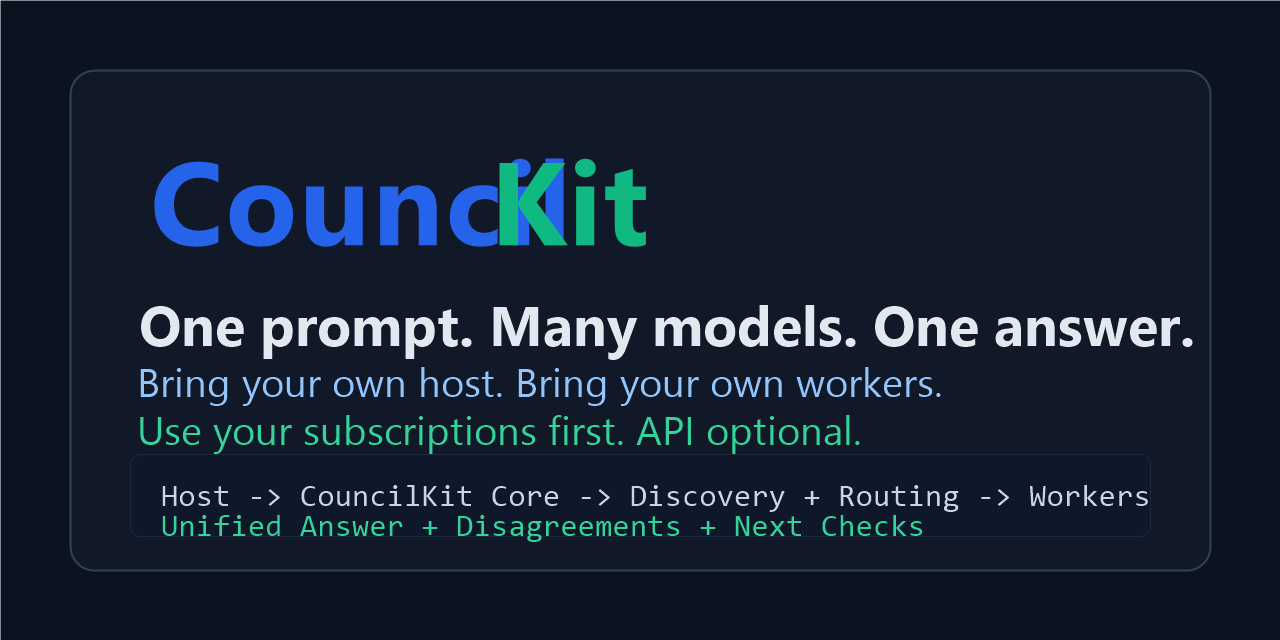
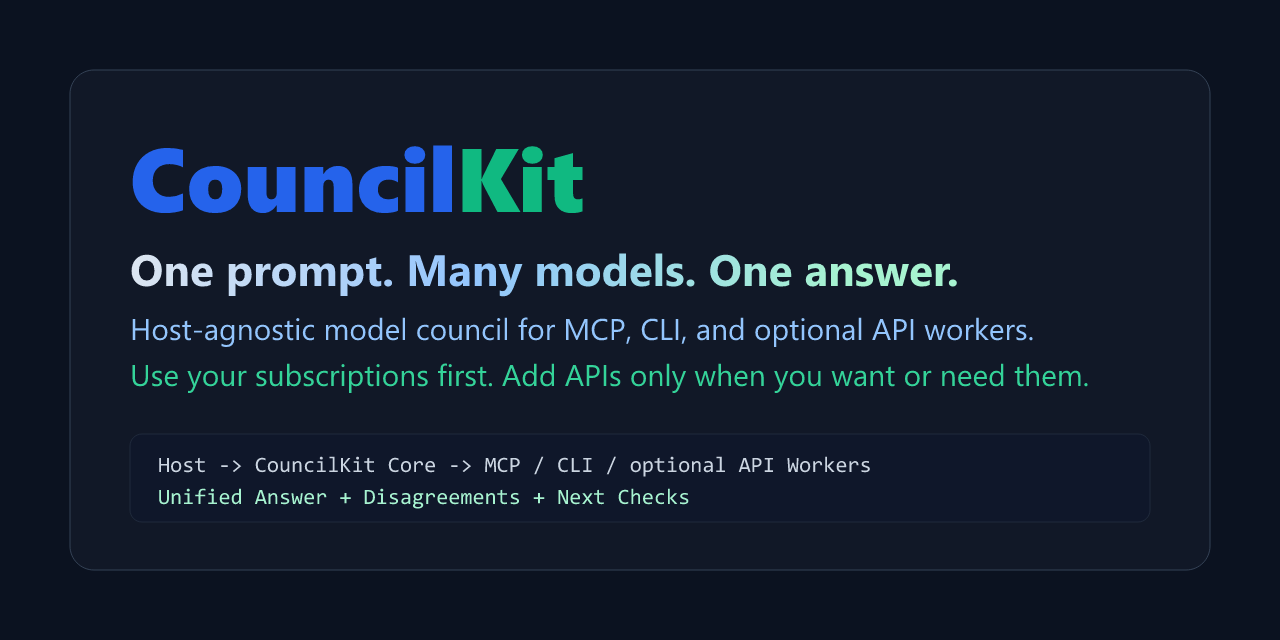
docs: sharpen positioning and polish CouncilKit visuals

Changed region(s): [[0.0938, 0.2188, 0.9375, 0.625], [0.0938, 0.6562, 0.75, 0.8438], [0.7812, 0.75, 0.9062, 0.8125]]

diff --git a/README.md b/README.md
@@ -1,25 +1,33 @@
 # CouncilKit
 
-![CouncilKit](./assets/logo.svg)
+![CouncilKit Wordmark](./assets/wordmark.svg)
 
 ## One prompt. Many models. One answer.
 
-CouncilKit is a host-agnostic model council that routes work across MCP, CLI, and optional API workers, then returns one unified answer.
+CouncilKit is a host-agnostic model council for MCP, CLI, and optional API workers.
+It routes tasks across selected workers and returns one unified answer.
+It is not Claude-only and it is not limited to fixed built-in workers.
 
 Bring your own host. Bring your own workers.
+MCP-native. CLI-capable. API-optional.
 
-![CouncilKit Workflow](./docs/demo/workflow.svg)
+Use your subscriptions first. Add APIs only when you want or need them.
+For many workflows, direct API setup is optional, not required.
+
+Provider and host quotas still apply.
+
+![CouncilKit Hero](./docs/demo/hero.svg)
+
+Static fallback: [docs/demo/hero-static.svg](./docs/demo/hero-static.svg)
 
 ### Get Started
 
 ```bash
 npm ci
 npm run build
-npm run smoke
-claude --plugin-dir ./councilkit
+npm run setup
+npm run doctor
 ```
-
-Use your subscriptions first. API optional.
 
 ## Interactive Setup (Recommended)
 
@@ -72,7 +80,21 @@ CouncilKit adds a single orchestration layer so one prompt can produce:
 - An MCP-native orchestration runtime (`council-hub`)
 - A host-agnostic middle layer (not tied to one editor/agent)
 - A worker registry with discovery + routing heuristics
-- A bundled Claude Code plugin path in this repo
+- A runtime that can combine MCP servers, CLI workers, local runtimes, and optional API adapters
+- A bundled Claude Code plugin path in this repo (without making Claude the only host path)
+
+## What Makes CouncilKit Different?
+
+Many workflows force everything through one provider or one model path.
+CouncilKit keeps hosts and workers separate, so one request can combine:
+
+- MCP-connected workers
+- CLI workers (for example Codex CLI and Gemini CLI)
+- local runtimes like Ollama
+- optional API workers when you choose to add them
+
+This is practical for teams already paying for subscriptions and running local tooling.
+You can start subscription-first and local-first, then add API adapters only if and when they help.
 
 ## What CouncilKit Is Not
 
@@ -99,10 +121,11 @@ Workflow visuals:
 - Host: where the user starts work (Claude Code, generic MCP host, CLI wrapper).
 - Worker: execution target CouncilKit calls (Codex CLI, Gemini CLI, Ollama, custom CLI/MCP/API worker definitions).
 - CouncilKit Core: the orchestration layer between host and workers.
+- Worker selection is registry + routing based, not locked to a fixed worker list.
 
 Details: [docs/architecture.md](./docs/architecture.md)
 
-## Supported Today / Experimental / Planned
+## Supported Today / Manual / Experimental / Planned
 
 ### First-Class
 
@@ -110,7 +133,7 @@ Details: [docs/architecture.md](./docs/architecture.md)
 - Claude Code plugin bundle in this repo
 - Built-in CLI workers: `codex`, `gemini`, `local`, `ollama`
 
-### Documented/Manual
+### Manual (Documented Templates)
 
 - VS Code, Cursor, Windsurf, OpenClaw templates
 - Zed, Neovim, JetBrains manual integration docs
@@ -342,8 +365,10 @@ CouncilKit is host-agnostic, but each host and worker still has its own limits a
 
 ## Use Your Subscriptions First, API Optional
 
-CouncilKit is designed for subscription-first and local CLI-first workflows.
-API workers are optional and should be treated as an extension path, not the default requirement.
+CouncilKit is designed for subscription-first and local-runtime-first workflows.
+Use your subscriptions first. Add APIs only when you want or need them.
+For many workflows, direct API setup is optional, not required.
+Host and provider quotas still apply.
 
 ## Perplexity / Future Hosts
 

diff --git a/docs/launch.md b/docs/launch.md
@@ -2,10 +2,12 @@
 
 ## Positioning
 
+- Host-agnostic model council for MCP, CLI, and optional API workers.
+- One prompt. Many models. One answer.
+- MCP-native. CLI-capable. API-optional.
 - Bring your own host. Bring your own workers.
-- Use the AI subscriptions you already pay for, together.
-- CouncilKit turns MCP and CLI tools into one model council.
-- Use your subscriptions first. API optional.
+- Use your subscriptions first. Add APIs only when you want or need them.
+- For many workflows, direct API setup is optional, not required.
 
 ## Release Recommendation
 
@@ -18,18 +20,22 @@
 
 ## Suggested GitHub About Line
 
-Host-agnostic model council runtime for MCP and CLI workers. Bring your own host, bring your own workers.
+Host-agnostic model council for MCP, CLI, and optional API workers. Route work across Codex, Gemini, Ollama, and custom workers, then return one unified answer.
 
 ## Suggested Short Tagline
 
 One prompt. Many models. One answer.
+
+## Suggested Technical Tagline
+
+MCP-native. CLI-capable. API-optional.
 
 ## Suggested Release Notes Draft
 
 ### Highlights
 
 - Host-agnostic runtime architecture (hosts and workers are separate concepts)
-- Worker registry with metadata-driven discovery
+- Worker registry with metadata-driven discovery (not fixed to built-in workers only)
 - Task-aware routing heuristics and worker scoring
 - First-class Ollama local worker path
 - Claude plugin bundle + documented/manual integration templates
@@ -39,6 +45,7 @@ One prompt. Many models. One answer.
 
 - Worker CLIs must be installed/authenticated separately
 - CouncilKit orchestrates existing tools; it does not create extra quota
+- Provider and host quotas still apply
 - Some integration paths remain documented/manual or experimental by design
 
 ## Launch Channels

diff --git a/docs/faq.md b/docs/faq.md
@@ -4,6 +4,10 @@
 
 No. CouncilKit is host-agnostic. This repo ships a first-class Claude plugin path, but any MCP-capable host can call CouncilKit.
 
+## Is CouncilKit limited to fixed workers?
+
+No. Built-in workers exist, but CouncilKit also supports discovered and manually registered workers across MCP, CLI, and optional API worker types.
+
 ## What is the difference between hosts and workers?
 
 - Host: entrypoint that sends `council_run` requests.
@@ -16,6 +20,10 @@ Use another configured host path. CouncilKit is independent of one host, but hos
 ## Does CouncilKit create extra quota?
 
 No. It orchestrates existing tools and subscriptions.
+
+## Can CouncilKit avoid APIs forever?
+
+No absolute claim. API workers are optional, not forbidden. For many workflows, direct API setup is optional, not required.
 
 ## `npm run doctor` reports missing workers. Is that a build failure?
 

diff --git a/docs/launch/hero-copy.md b/docs/launch/hero-copy.md
@@ -2,8 +2,10 @@
 
 ## One prompt. Many models. One answer.
 
-CouncilKit is a host-agnostic model council that routes work across MCP, CLI, and optional API workers, then returns one unified answer.
+CouncilKit is a host-agnostic model council for MCP, CLI, and optional API workers.
+It routes work across selected workers and returns one unified answer.
 
 Bring your own host. Bring your own workers.
 
-Use your subscriptions first. API optional.
+Use your subscriptions first. Add APIs only when you want or need them.
+For many workflows, direct API setup is optional, not required.

diff --git a/docs/demo/README.md b/docs/demo/README.md
@@ -4,6 +4,8 @@ This folder contains launch/demo visuals:
 
 - `workflow.svg`
 - `discovery-routing.svg`
+- `hero.svg`
+- `hero-static.svg`
 - `social-card.svg`
 - `host-worker-model.svg`
 - `support-matrix.svg`
